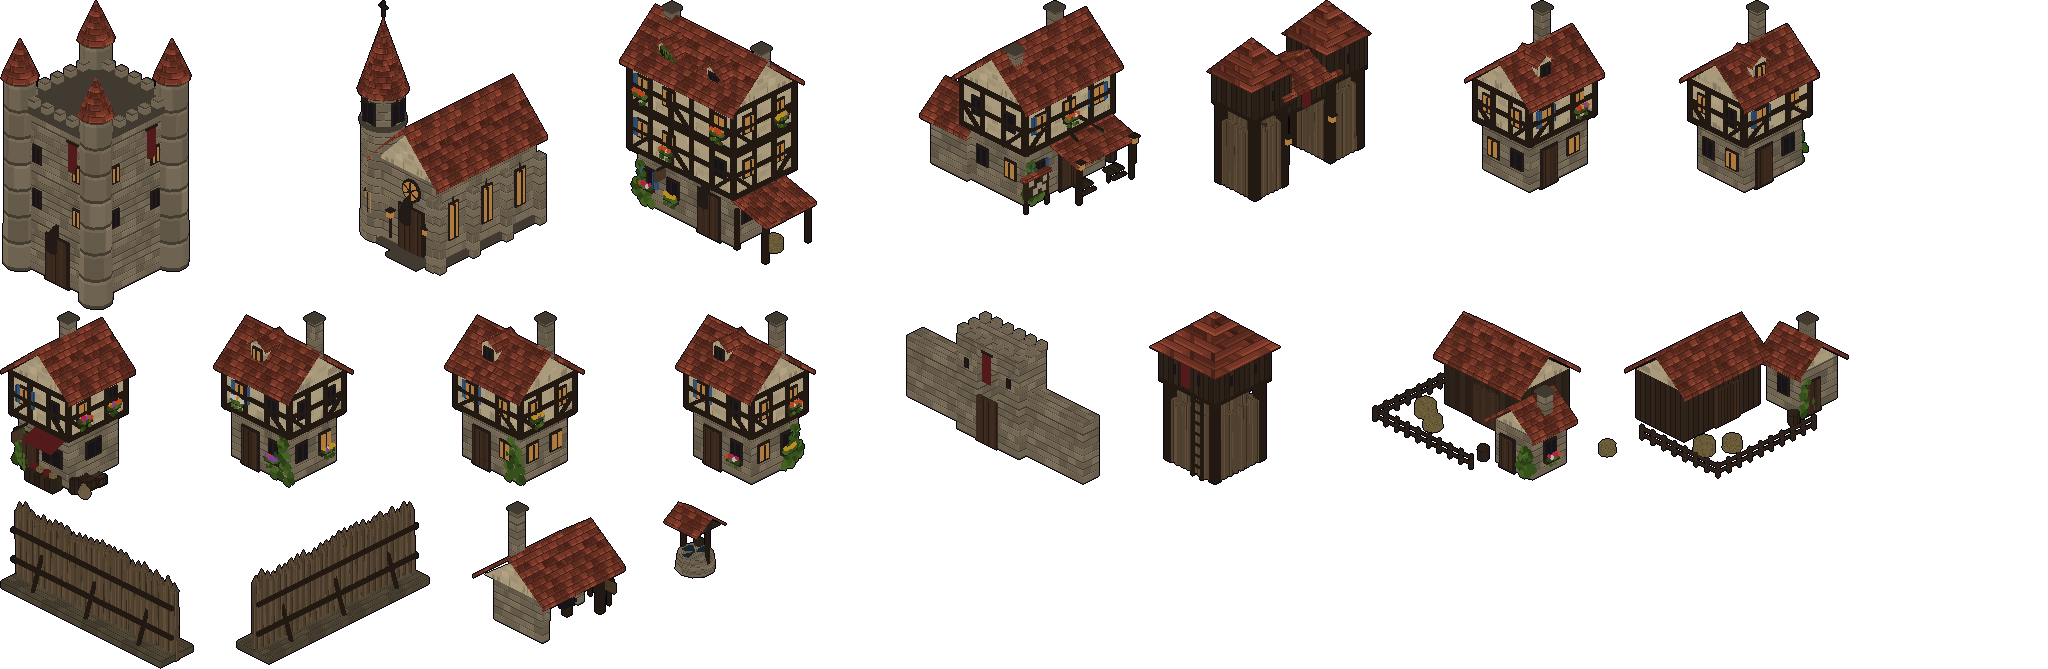
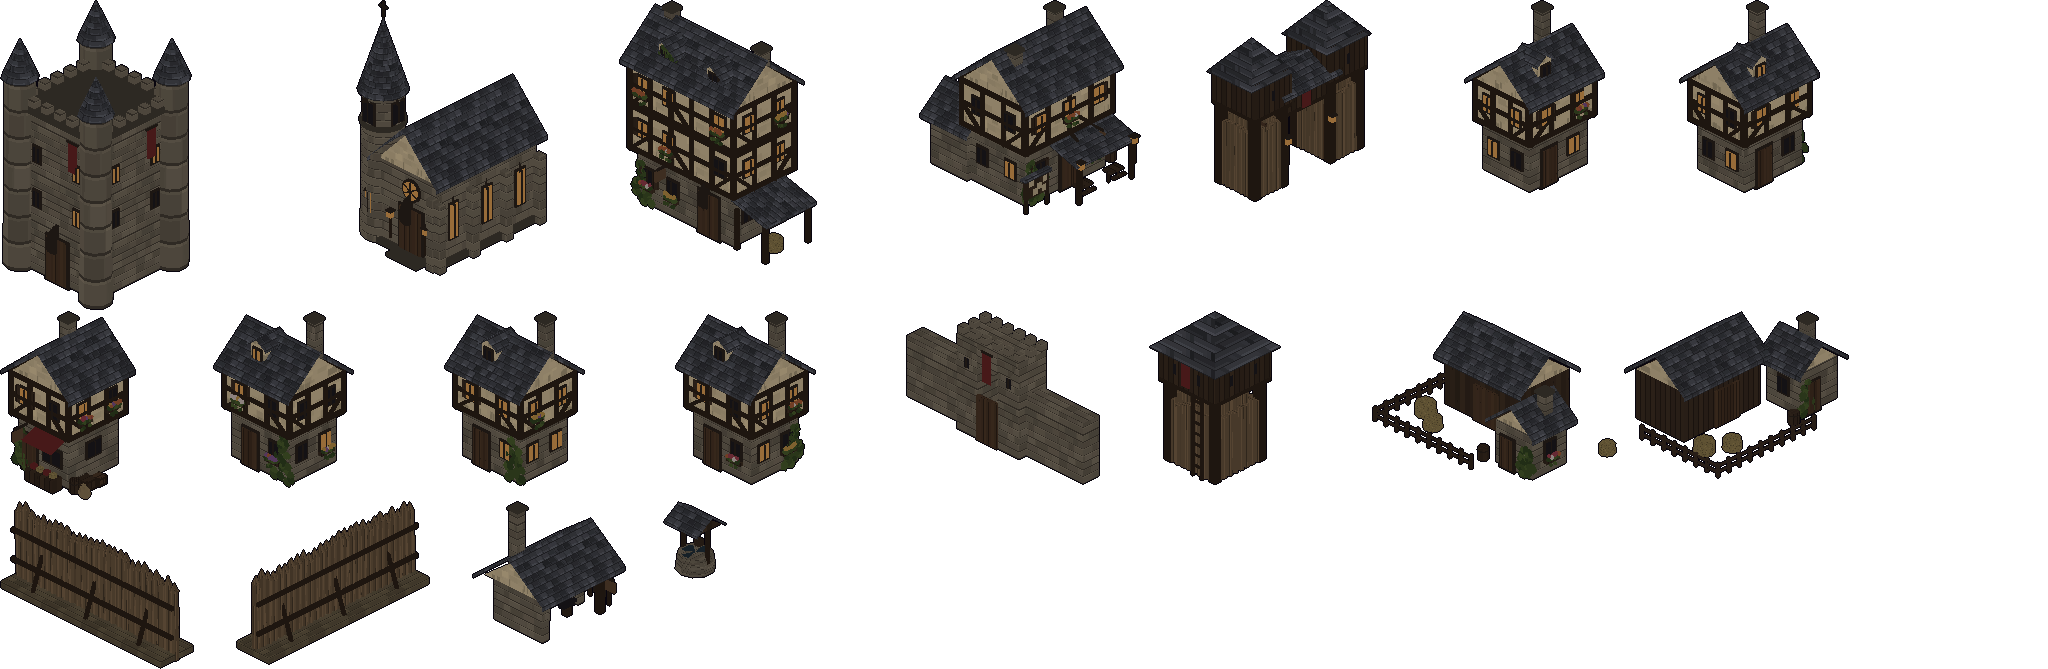
Critic pass 11m: keep the dusky tones; the reference is for detail only
The owner's direction: keep the game's dusky, gloomy colour tones. The
reference is for the detail in the art assets (trees, buildings,
vegetation). So pass 11's light, grade and palette changes go back and
all of its detail stays.

Put back:
- daylight.js: every part of the day's pre-11 light under the old
  fixed grade (vignette 0.85, full violet haze, no saturation grade).
  The vig/haze/sat fields stay.
- renderer.js: no lift on faces squarely to the sun (11b/11i).
- palette.js: the dusk meadow grass. outdoorpaint.js: the muted
  meadow-flower colours (the patches stay).
- buildkit.js:
  - the trees' olive-grey and dull amber (birches muted gold);
  - duller flower boxes and ivy;
  - Thornwick's limewash and stone are style A's again, no blue
    shutters, and its roofs keep the tile shapes in the old slate.
- town.json: byte for byte its pre-11 self. env.json: pass 11's props
  and beasts take the old prop grade.

Kept:
- tiled roof shapes, dormers, bell tower, flower boxes, ivy;
- leaf-cluster crowns, birches, wheat, beasts, doorsteps;
- field walls, trees among the houses, meadow patches;
- the crowd and its tools;
- contact shade and cast shadows.

Measured on the square / high street (before pass 11 -> 11l -> now):
- luminance 0.279/0.267 -> 0.447/0.435 -> 0.263/0.244;
- warmth 0.059/0.043 -> 0.254/0.249 -> 0.054/0.036;
- edge density 5.40/3.78 -> 5.84/4.70 -> 5.38/3.91.

The rubric now scores detail only: 4.7 -> 7.0 (reference 8.7).
[…]

diff --git a/tools/actor-lab/buildkit.js b/tools/actor-lab/buildkit.js
@@ -126,7 +126,7 @@ function windowOn(g, S, face, u, y, w = 0.12, h = 0.16, opt = {}) {
 }
 // Thornwick's dressing (critic pass 11j, scored against the owner's reference: its walls carry flower boxes and ivy,
 // ours were bare). On its own stream (S.frnd), so no window's light changes; tagged `dress`, so no footprint grows.
-const FLOWER = ['#d8305a', '#f0e8f4', '#f0b828', '#a050d8', '#f05a28'], LEAF = ['#36561e', '#456a24', '#5a802c'];
+const FLOWER = ['#9a3a50', '#c8c0c8', '#b89040', '#7a5098', '#a85a34'], LEAF = ['#2e4420', '#3a5226', '#46602a'];
 const dressMats = new Map(), dressMat = (c) => { if (!dressMats.has(c)) dressMats.set(c, flat(c)); return dressMats.get(c); };
 function dress(mesh) { mesh.userData.dress = true; return mesh; }
 function flowerBox(g, S, place, face, u, y, w) {
@@ -212,9 +212,9 @@ export const STYLES = {
 // inn and temple read the same everywhere) and changes only materials and colour.
 const A_SHAPE = { roofRise: 1.05, jetty: 0.04, timber: true };
 Object.assign(STYLES, {
-  // Hollow Vale: warm oak, cream limewash, terracotta tile, blue shutters (critic pass 11c, scored against the
-  // owner's reference: blue-grey slate and grey limewash read cold beside its warm village)
-  vale:    { ...STYLES.A, key: 'vale', lower: ['field', '#8a7e6a'], upper: ['plaster', '#d9c9a6'], roof: ['tile', '#8a4130'], shutter: '#3b679c', dress: true },
+  // Hollow Vale: warm oak, limewash, slate. Critic pass 11 keeps its detail (the roofs laid in rounded tiles, each its
+  // own tone; flower boxes and ivy) in the game's own dusky colours (the owner, 2026-10-03: the reference is for detail)
+  vale:    { ...STYLES.A, key: 'vale', roof: ['tile', '#434856'], dress: true },
   fens:    { ...A_SHAPE, key: 'fens', lower: ['rubble', '#5b5f57'], upper: ['plaster', '#98a089'], roof: ['slate', '#363d36'],
              wood: '#35302a', beam: '#26231f', door: '#3d3a30', trim: '#1f201c', banner: '#3b5a4a', hay: '#6f6a46', signboard: '#4a463a' },  // damp, mossy, grey-green
   reach:   { ...A_SHAPE, key: 'reach', lower: ['field', '#4c4542'], upper: ['plaster', '#8c7d70'], roof: ['slate', '#5e3024'],
@@ -566,8 +566,8 @@ const TYPES = {
 // ── trees (our own, to replace the stock cones): pine, broadleaf, dead, groves ──
 const flat = (color) => new THREE.MeshStandardMaterial({ color: new THREE.Color(color), flatShading: true });
 const jitter = (geo, r, amt) => { const p = geo.attributes.position; for (let i = 0; i < p.count; i++) p.setXYZ(i, p.getX(i) + (r() - 0.5) * amt, p.getY(i) + (r() - 0.5) * amt * 0.6, p.getZ(i) + (r() - 0.5) * amt); geo.computeVertexNormals(); return geo; };
-// leaf: olive toward gold, autumn: amber and rust, birch: gold (pass 11d: the reference's autumn harmony)
-const TREE_COL = { pine: ['#1f2b22', '#243226', '#2a392b'], leaf: ['#4a5226', '#56602b', '#646a30'], autumn: ['#9a6a22', '#a87a26', '#8a5a1e'], birch: ['#a8872a', '#b8962e', '#97762a'], bark: '#3a2c22', dead: '#4a4038' };
+// leaf: olive-grey, autumn: dull amber, birch: a muted gold (the game's dusk palette; pass 11d's warmer one reverted)
+const TREE_COL = { pine: ['#1f2b22', '#243226', '#2a392b'], leaf: ['#3a4527', '#42502c', '#4b5530'], autumn: ['#6a4f25', '#76582a', '#5e3f21'], birch: ['#7a6428', '#86702c', '#6e5824'], bark: '#3a2c22', dead: '#4a4038' };
 // Foliage (critic pass 2: faceted gem-like crowns clashed with the buildings): closed,
 // softly-shaded masses. Geometry is vertex-merged BEFORE jittering so faces never crack
 // apart, shaded smooth, and vertex-coloured from a dark self-shadowed underside to a lighter

diff --git a/src/render/daylight.js b/src/render/daylight.js
@@ -25,15 +25,14 @@ export const BLEND_S = 120;                       // two minutes of play from on
  *  violet haze × (1 = as in the dungeons); sat: a saturation grade (1 = none) */
 /** @type {Record<string, Sky>} The looks, measured on the contact sheet (docs/art-critic-pass-5.md):
  * dusk is the game's old fixed look; night sits near 45 % of day's brightness. */
-// Critic pass 11a (2026-10-03, scored against the owner's reference): day was a third darker than the reference
-// and neutral where it's warm (luminance 0.26 vs 0.40, R − B 0.04 vs 0.25), under a vignette that swallowed the
-// frame and a violet haze. Day is now a warm high sun with a warm ambient, a light vignette, no haze and a
-// saturation grade; dawn leans toward it; dusk keeps the game's old fixed light under a lighter vignette and haze;
-// night keeps its dark.
+// The grade (vig, haze, sat) came with the time of day in critic pass 11a, which brightened and warmed the day toward
+// the owner's reference. The owner's direction (2026-10-03): keep the game's dusky, gloomy tones; the reference is for
+// the detail in the art, not its light. So every part of the day keeps its pre-11 light under the old fixed grade
+// (vignette 0.85, the full violet haze, no saturation grade); the fields stay, so a later look can still change them.
 export const LOOKS = {
-  dawn: { sun: [1.25, 0.88, 0.66], amb: [0.42, 0.40, 0.46], win: 0.45, lamp: 0.65, wisp: 0.8, bloom: 0.9, lift: 0.2, vig: 0.5, haze: 0.5, sat: 1.12 },
-  day: { sun: [1.62, 1.38, 1.02], amb: [0.62, 0.57, 0.50], win: 0.12, lamp: 0.3, wisp: 0.55, bloom: 0.75, lift: 0.18, vig: 0.32, haze: 0, sat: 1.12 },
-  dusk: { sun: [0.78, 0.55, 0.40], amb: [0.31, 0.29, 0.44], win: 1, lamp: 1, wisp: 1, bloom: 1, lift: 0, vig: 0.6, haze: 0.6, sat: 1.1 },
+  dawn: { sun: [0.98, 0.70, 0.58], amb: [0.34, 0.34, 0.44], win: 0.45, lamp: 0.65, wisp: 0.8, bloom: 0.9, lift: 0.2, vig: 0.85, haze: 1, sat: 1 },
+  day: { sun: [1.02, 0.94, 0.80], amb: [0.44, 0.45, 0.50], win: 0.12, lamp: 0.3, wisp: 0.55, bloom: 0.7, lift: 0.45, vig: 0.85, haze: 1, sat: 1 },
+  dusk: { sun: [0.78, 0.55, 0.40], amb: [0.31, 0.29, 0.44], win: 1, lamp: 1, wisp: 1, bloom: 1, lift: 0, vig: 0.85, haze: 1, sat: 1 },
   night: { sun: [0.30, 0.37, 0.58], amb: [0.23, 0.24, 0.38], win: 1.3, lamp: 1.4, wisp: 1.45, bloom: 1.2, lift: 0.15, vig: 0.85, haze: 1, sat: 1 },
 };
 

diff --git a/src/render/outdoorpaint.js b/src/render/outdoorpaint.js
@@ -17,9 +17,8 @@ const mix = (a, b, t) => [a[0] + (b[0] - a[0]) * t, a[1] + (b[1] - a[1]) * t, a[
 const mul = (a, k) => [a[0] * k, a[1] * k, a[2] * k];
 const frac = (v) => v - Math.floor(v);
 const N_TUFT = norm3(0, 0.55, 0.83), N_WATER = norm3(0, 0.36, 0.93);
-// brighter than they were (critic pass 11j: the reference's meadows are dotted yellow, white, pink and violet; ours
-// were four muted single pixels on 6 % of tiles)
-const FLOWERS = [[232, 200, 84], [226, 216, 240], [214, 92, 116], [244, 238, 224], [164, 116, 214]];
+// muted, to sit in the dusk (critic pass 11j added the meadow patches; their colours stay the game's own)
+const FLOWERS = [[168, 150, 80], [160, 150, 178], [150, 70, 66], [176, 170, 150]];
 const R = { g: ELIT.grass, d: ELIT.dirt, s: ELIT.street, w: ELIT.river, m: ELIT.mud, f: ELIT.wheat };
 const OUT = { c: null, n: N_UP, e: 0 };
 const ret = (c, n = N_UP, e = 0) => { OUT.c = c; OUT.n = n; OUT.e = e; return OUT; };

diff --git a/src/render/palette.js b/src/render/palette.js
@@ -91,7 +91,7 @@ export const ELIT = {
   mud:    ['#110b07', '#1c130b', '#281b11', '#352417', '#452f1d'].map(_hx),  // mud pools
   pit:    ['#040306', '#08070c', '#0e0c14', '#16131e', '#1f1b29'].map(_hx),  // sunken pits
   // surface scenes (town / overland at dusk)
-  grass:  ['#15170e', '#202414', '#2d331b', '#3c4323', '#50562c'].map(_hx),  // meadow, olive toward ochre (pass 11d: lime under the warm day)
+  grass:  ['#12170f', '#1c2317', '#27301f', '#343e29', '#465036'].map(_hx),  // dusk meadow, olive-grey
   grass_fens:    ['#0f150f', '#161f18', '#1e2a20', '#28362a', '#374636'].map(_hx),  // sodden fen grass
   grass_reach:   ['#131110', '#1d1a17', '#27231f', '#332e28', '#433c34'].map(_hx),  // ash-dusted scrub
   grass_heights: ['#191c1d', '#242929', '#303736', '#414946', '#58605b'].map(_hx),  // frost-bitten turf

diff --git a/src/render/renderer.js b/src/render/renderer.js
@@ -100,10 +100,7 @@ void main(){
   vec2 p=gl_FragCoord.xy;
   vec3 amb=dot(uAmbC,vec3(1.0))>0.0?uAmbC:mix(vec3(0.10,0.07,0.17),vec3(0.55,0.48,0.62),uAmb);
   vec3 col=A.rgb*amb*(0.72+0.28*n.z);
-  float sd=max(dot(n,uSunL),0.0);
-  bool figPx=Et.a>0.97&&Et.a<0.99;   // an actor's pixel (EMI alpha 250)
-  col+=A.rgb*uSunC*(sd+(figPx?0.0:0.55*sd*sd*sd*sd));   // a figure skips the lift: its normals face the sun, and it washed
-  // pale cloth to white and red to pink (pass 11i)   // + a lift on faces squarely to the sun: the reference's lit tops go near white-gold (pass 11b)
+  col+=A.rgb*uSunC*max(dot(n,uSunL),0.0);
   for(int i=0;i<3;i++){
     vec3 lp=uL[i];
     vec3 d=vec3(p.x-lp.x,(lp.y-p.y)*1.8,lp.z-h);

diff --git a/docs/art-critic-pass-11.md b/docs/art-critic-pass-11.md
@@ -1,7 +1,9 @@
 # Art critic pass 11 — toward the reference: plan and scores
 
-**Status: Implemented (2026-10-03), 11a–11l: overall 4.4 → 7.3, no area under 6.5.** Each iteration below has its
-numbers, captures and score; what's left is at the end.
+**Status: Implemented (2026-10-03), 11a–11m.** **The owner's direction (2026-10-03): keep the game's dusky, gloomy
+colour tones; the reference is for the detail in the art assets: trees, buildings, vegetation.** So 11m put the
+light, the grade and every palette back to the game's own, and kept all the detail. The rubric below scores detail
+only; light and colour are no longer measured against the reference.
 
 The owner gave a reference to score against: a frame of a commercial mobile builder's art, a hand-finished 3D
 village in autumn. It's another studio's work, so it stays out of the repo: it's kept in the scratch tree, used
@@ -119,6 +121,8 @@ re-scored, and a before/after sheet added below.
 
 ## Iteration 11a: light and colour (shipped 2026-10-03)
 
+*Reverted in 11m, at the owner's direction: the game keeps its own light and grade. The grass's smooth tone blend stays.*
+
 ![11a, before and after: the square, the high street, the crossroads, the north-west](img/art11/a-light.jpg)
 
 **What changed** (`src/render/daylight.js`, `renderer.js`, `outdoorpaint.js`):
@@ -155,6 +159,8 @@ re-scored, and a before/after sheet added below.
 
 ## Iteration 11b: shadow and depth (shipped 2026-10-03)
 
+*The lift on faces squarely to the sun and the deeper day shadows were reverted in 11m. The contact shade stays.*
+
 ![11b, before and after: the north-west, the square, the crossroads, the high street](img/art11/b-shadow.jpg)
 
 **What changed:**
@@ -178,6 +184,8 @@ re-scored, and a before/after sheet added below.
 **Next:** 11c, buildings.
 
 ## Iteration 11c: buildings (shipped 2026-10-03)
+
+*Colours reverted in 11m (terracotta, cream, blue shutters, the brighter bake). The tiled roof's shapes stay, laid in the old slate.*
 
 ![11c, before and after: the square and the high street](img/art11/c-buildings.jpg)
 
@@ -440,21 +448,68 @@ clearing, with its trees outside the walls.
   own frame changes little.
 - **Overall, 7.2 → 7.3** (7.29).
 
+## Iteration 11m: the dusk kept, the detail kept (shipped 2026-10-03)
+
+![The square before pass 11, at 11l's bright day, and now: the dusk tones with pass 11's detail](img/art11/m-dusk.jpg)
+
+The owner: keep the dusky, gloomy tones; the reference is for the detail in the art assets.
+
+**Put back to the game's own:**
+- **Every part of the day's light** (`daylight.js`): the pre-11 sun, ambient and shadow lift.
+  - The grade is the old fixed one: vignette 0.85, the full violet haze, no saturation grade.
+  - The `vig`, `haze` and `sat` fields stay, set to those values, so a later look can still change them.
+- **The light pass:** no lift on faces squarely to the sun (11b, and 11i's exemption for figures with it).
+- **Palettes:**
+  - the dusk meadow's grass;
+  - the meadow flowers' muted colours (the patches stay);
+  - the trees' olive-grey leaves and dull amber autumn, the birches in a muted gold;
+  - the flower boxes and ivy in darker, duller tones.
+- **Thornwick's bake:** `town.json` is byte for byte its pre-11 self (gain 0.7, desaturation 0.12, the warm tint).
+  The style's limewash and stone are A's again, with no blue shutters.
+- **Pass 11's new props and beasts** take the old prop grade (gain 0.72, desaturation 0.1, the same tint).
+
+**Kept, all detail:**
+- the tiled roofs' shapes (rounded tiles, each its own tone, a lit lip), now laid in the old slate blue-grey;
+- dormers and the round bell tower;
+- flower boxes and ivy;
+- leaf-cluster crowns and birches;
+- standing wheat, the farmyard's beasts, hay and pumpkins, and dressed doorsteps;
+- field walls and fences;
+- the trees among the houses;
+- meadow flower patches;
+- the crowd and its tools;
+- contact shade, and figures' cast shadows.
+
+**Measured** (the square and the high street; before pass 11 → 11l → now):
+
+| | Before | 11l | Now |
+|---|---|---|---|
+| Luminance | 0.279 / 0.267 | 0.447 / 0.435 | **0.263 / 0.244** |
+| Warmth (R − B) | 0.059 / 0.043 | 0.254 / 0.249 | **0.054 / 0.036** |
+| Saturation | 0.288 / 0.362 | 0.477 / 0.568 | **0.290 / 0.358** |
+| Edge density (detail) | 5.40 / 3.78 | 5.84 / 4.70 | **5.38 / 3.91** |
+
+The tone is back where it was, a shade darker for the contact shade and cast shadows. The detail stays: the high
+street's edge density 3.78 → 3.91. On the square the dark slate roofs hide some of the tiles' contrast that the
+terracotta showed.
+
 ## Where it stands, and what's next
+
+Scored on detail only (the owner's direction); light and colour are the game's own and no longer measured against
+the reference.
 
 | Area | Reference | Start | Now |
 |---|---|---|---|
-| Light and colour | 9 | 3 | 8 |
-| Shadow and depth | 9 | 4 | 7 |
-| Buildings | 9 | 5.5 | 8 |
+| Light and colour | — | — | the game's dusk, kept |
+| Shadow and depth | 9 | 4 | 6.5 |
+| Buildings | 9 | 5.5 | 7.5 |
 | Trees and plants | 9 | 4.5 | 7.5 |
 | Ground | 8 | 5 | 7 |
 | Characters | 8 | 5 | 6.5 |
 | Life and density | 9 | 4 | 7 |
-| **Overall** | **8.7** | **4.4** | **7.3** |
+| **Overall (detail)** | **8.7** | **4.7** | **7.0** |
 
-Every area is now 6.5 or better, and the overall is 7.3 against the 7.5 target. What's left, by what it would
-buy:
+Every area is 6.5 or better. What's left, by what it would buy, all of it detail:
 - **Characters (6.5 → 7.5): work in place.** The reference's villagers hoe, hammer and carry; ours walk and wait
   with their tools in hand. Short work loops (hoe, hammer, sweep, carry) mean new clips in the actor bake for the
   KayKit bodies. It's the largest remaining gain, and a bake and animation change, so it's the owner's call.

diff --git a/docs/README.md b/docs/README.md
@@ -26,7 +26,7 @@ the header of each status doc for what it replaces.
 | [face-fidelity-proposal.md](./face-fidelity-proposal.md) | Art critic pass 7 (options): why faces read blank in the world (the bake averages sub-pixel eyes, brows and mouths away; pale hair melts into skin), with prototypes on the Stage: A keep features whole, B a face grade and hairline, C bigger heads; A2, D and E described | **Implemented** (2026-10-02): A2b + B shipped as the default bake (`tools/actor-lab/lab.js`) |
 | [art-critic-pass-7.md](./art-critic-pass-7.md) | Critic pass 7: the eyes. What's wrong with A's (goggles, black holes, fused brows), A2 a pixel-art eye (A2a, A2b with whites), and D more pixels per figure (D1 72 px; D2 a simulated 112 px layer), all on the Stage; recommends A2b + B; *Shipped*: A2b + B with whites in both views and toned brows, every face actor rebaked | **Implemented** (2026-10-02) |
 | [art-critic-pass-8.md](./art-critic-pass-8.md) | Critic pass 8: Thornwick's people. Women no longer read as bearded (necklines), nobody stands behind a roof or in the well (spots measured with the renderer's x-ray share; browser test 15d), the Watch out of the hero's plate, heights in canon order, a compact amble (`Walking_B`) | **Implemented** (2026-10-02) |
-| [art-critic-pass-11.md](./art-critic-pass-11.md) | Critic pass 11: toward the owner's reference (a commercial village frame, kept out of the repo, described in words). What it does (warm high-key light, tiled roofs, leaf-cluster crowns, dressed bases, life), the same pixel metrics on it and on us (a third darker, half as colourful, neutral where it's warm), a rubric (reference 8.7, us 4.4, target 7.5), and twelve iterations (11a–11l: light, shadow, buildings, plants and ground, life, the crowd, cast shadows, greenery, field walls, the cast, trees among the houses); 4.4 → 7.3 | **Implemented** (2026-10-03) |
+| [art-critic-pass-11.md](./art-critic-pass-11.md) | Critic pass 11: toward the owner's reference (a commercial village frame, kept out of the repo, described in words). What it does (warm high-key light, tiled roofs, leaf-cluster crowns, dressed bases, life), the same pixel metrics on it and on us (a third darker, half as colourful, neutral where it's warm), a rubric (reference 8.7, us 4.4, target 7.5), and twelve iterations (11a–11l: light, shadow, buildings, plants and ground, life, the crowd, cast shadows, greenery, field walls, the cast, trees among the houses), then 11m: the owner keeps the game's dusky tones, so the light and palettes went back and the detail stayed (detail 4.7 → 7.0) | **Implemented** (2026-10-03) |
 | [art-critic-pass-10.md](./art-critic-pass-10.md) | Critic pass 10: the Vale's landscape. Mountains smaller than the keep and on a lattice, crumpled facets and dunce-cap snow; near-black pines and pines cut into grove oaks; no woods where you walk (13 % of the map near a tree) and a lumber camp in open meadow; roads with hard corners, rail-track ruts and tangled joins; a river of canal bands and ice-crack streaks, and the Tithe Mill 10 tiles from water. Measured in 19 phone frames and from above; proposals M1–M3, T1–T4, R1–R5, W1–W4 in two phases. *Shipped*: the pines' black was a NaN bug in the bake; massifs twice the keep, at half resolution; six woods; filleted roads with aprons and tracks; a meandering river with a mill-race | **Implemented** (2026-10-03): `tools/actor-lab/buildkit.js`, `envlab.js`, `env.json`; `src/sim/outdoor.js`, `road.js`; `src/render/outdoorpaint.js`, `renderer.js` (`up`); `test/overland.test.mjs` |
 | [art-critic-pass-9.md](./art-critic-pass-9.md) | Critic pass 9: the foes. Each kind gets its own face (none wears a hero's), Garrow bareheaded in steel, the Robed Stranger in the Cult's charcoal and ember with his lit ember-shard, the bosses baked tall at 73 px instead of upscaled ×1.3, weapon effects and sparks for the Redhand, the Cult and the bosses, staves held upright | **Implemented** (2026-10-02) |
 | [skeleton-skull-proposal.md](./skeleton-skull-proposal.md) | The Ashbound minion's skull: why it reads as a white egg (the bake averages its sockets away, the cloak hides its jaw), and options prototyped on the Stage: a pixel skull drawn from the geometry (sockets with a brow ridge, a nasal notch, teeth), the cloak off, a bone grade, a smaller skull. Shipped: P1b on all five skeletons, the minion's cloak replaced by a low rag | **Implemented** (2026-10-02) |
